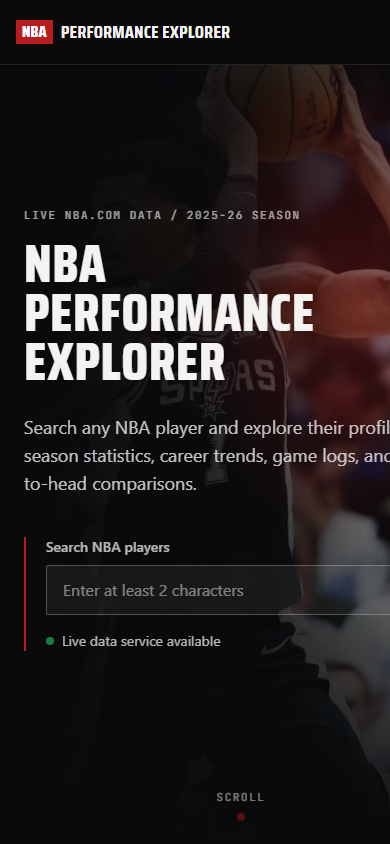
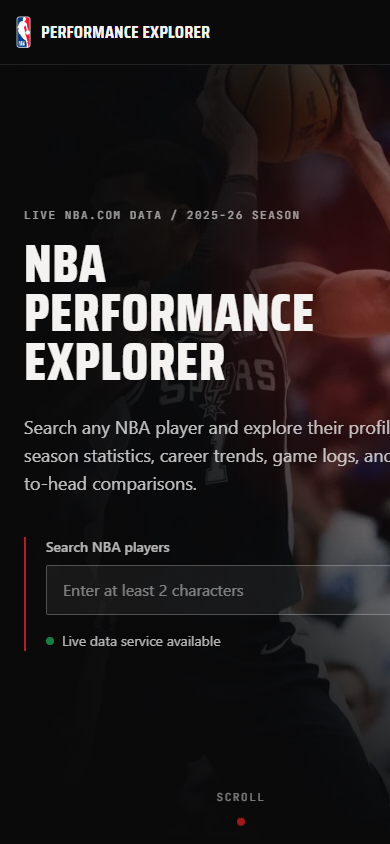
docs(readme): refresh branding and comparison screenshots

Changed region(s): [[0.0308, 0.0, 0.5846, 0.0616], [0.5846, 0.955, 0.6462, 0.9858]]

diff --git a/docs/PROJECT_STATE.md b/docs/PROJECT_STATE.md
@@ -7,36 +7,33 @@ _Last updated: 2026-07-03_
 
 ## Current State
 
-- **Current milestone:** Visual Redesign 2 - Broadcast Editorial (complete, merged, and deployed)
-- **Current task:** None - the dark redesign is merged to `main` and live in production
-- **Current branch:** `main`
-- **Current status:** The second, approved visual redesign is complete and shipped. It was developed
-  across five stages on `feature/visual-redesign-2-foundation`: the dark landing plus the global dark
-  shell and self-hosted type system; the fully dark player profile (identity hero, biography, dark
-  season selector, scoreboard statistics, and supporting dark stat sheet); the profile's data surfaces
-  (the career trend chart and its equivalent table, and the game log and its scrollable table)
-  redesigned dark; the two-player comparison route (`/compare`) as a dark cinematic head-to-head with a
-  neutral, accessible comparison table; and a final release-polish stage from a whole-application
-  adversarial audit (the landing Career Trends band converted to dark so the app is dark end to end,
-  landing heading focus on entry, mobile-menu keyboard focus containment, a named career-trends scroll
-  region, larger comparison touch targets, a brighter display-red for large scoreboard figures with the
-  single UI accent unchanged, and em-dash and eyebrow cleanup). It was opened as PR #24 and **merged
-  into `main` using a merge commit (`a0ce49f228f564910ccc253a48215f481fb18485`)**; the six redesign
-  commits are preserved in history. Render auto-deployed the merged `main`, and production health and
-  HTTP/API smoke checks passed at `https://nba-performance-explorer.onrender.com` (the deployed build
-  serves the dark redesign over live NBA.com data). The refreshed dark README screenshots are on
-  `main`. The feature branch has been deleted locally and remotely, local `main` matches `origin/main`,
-  and the working tree is clean. Validation passes with 166 frontend tests, 244 backend tests, and 410
-  total. Backend, shared contracts, routes, `render.yaml`, all data/query/season/comparison logic, the
-  chart and game-log data and metric definitions, and the numeric formatters are unchanged; production
-  remains live-backed with `NBA_DATA_PROVIDER=nba-stats`, `NBA_ALLOW_FIXTURE_IN_PRODUCTION=false`,
-  `NBA_STATS_TIMEOUT_MS=10000`, and the start command `node backend/dist/server.js`. The known
-  Recharts/Vite chunk-size warning remains non-blocking, and the documented live-data limitation for
-  LeBron James's career seasons remains (NBA.com returns zero career rows for that player, so his career
-  chart and any comparison relying on it show the empty / no-common-season states in production; not a
-  defect, per ADR-013). Production visual interaction was verified locally on the identical merged
-  build, while production HTTP/API and deployment evidence were verified live. The first redesign and
-  TASK-011 remain recorded below.
+- **Current milestone:** Post-release visual enhancement: NBA branding, player imagery, and comparison graph
+- **Current task:** NBA logo, expanded player-image registry, landing image diversity, and a neutral comparison graph (implemented on a branch, local only, not pushed)
+- **Current branch:** `feature/nba-branding-player-images-comparison-visual`
+- **Current status:** The dark broadcast-editorial redesign (Visual Redesign 2) is complete, merged to
+  `main` (merge commit `a0ce49f228f564910ccc253a48215f481fb18485`), and deployed and verified in
+  production at `https://nba-performance-explorer.onrender.com` over the live NBA.com provider; that
+  work is recorded below. A separately scoped visual enhancement is now implemented on
+  `feature/nba-branding-player-images-comparison-visual` (branched from `main` at `427f63b`, local
+  only, not pushed): the supplied NBA logo is integrated once in the masthead beside the wordmark with
+  an "Unofficial player analytics" label (a decorative empty-alt image; the non-affiliation notice and
+  NBA.com attribution are unchanged); the strict id-keyed player-image registry grows from three to
+  fourteen verified players (every id checked against the fixtures and the live search directory,
+  never inferred from a face, with the photo-free fallback preserved for unmapped players and no two
+  players sharing a file); the landing now shows a different player per editorial slot (Wembanyama,
+  Luka Doncic, Giannis Antetokounmpo, Shai Gilgeous-Alexander, and James Harden) with no repeated
+  photo, so Curry and LeBron are no longer over-used; and the comparison page gains a supplementary,
+  neutral "statistical matchup" graph above the still-authoritative table (a mirrored per-metric
+  dual-bar with independent within-row scales, raw values, blue and amber data-visualisation series
+  distinguished by more than colour, no winner or aggregate score, an aria-hidden graphic, and a
+  reduced-motion-safe reveal). The five README portfolio screenshots are refreshed for the header
+  branding, landing imagery, and the new comparison graph. Validation passes with 182 frontend tests,
+  244 backend tests, and 426 total. No backend, shared contracts, `render.yaml`, route,
+  query-ownership, statistics, number-formatting, chart or game-log data, comparison URL / duplicate /
+  common-season logic, or existing profile-fallback behaviour changed; the direction is recorded in
+  ADR-022. The branch is not pushed; pushing, opening a pull request, merging, and deploying are
+  deferred until explicitly requested. The completed dark redesign (still live on `main`) and TASK-011
+  remain recorded below.
 
 ## Visual Redesign 2 (Broadcast Editorial)
 
@@ -319,11 +316,13 @@ the Stage D branch passed with:
 
 ## Immediate Next Action
 
-The dark broadcast-editorial redesign is merged to `main` (merge commit
-`a0ce49f228f564910ccc253a48215f481fb18485`), deployed to Render, and verified in production, and the
-feature branch has been cleaned up locally and remotely. No required redesign work remains. Future
-work should be handled as a new, separately scoped enhancement or maintenance task (for example, the
-optional bundle-splitting enhancement for the known non-blocking Recharts/Vite chunk-size warning).
+The post-release visual enhancement (NBA branding, the expanded player-image registry, landing image
+diversity, and the neutral comparison graph, ADR-022) is implemented, validated (182 frontend, 244
+backend, 426 total; all builds passing; the known non-blocking Recharts/Vite chunk-size warning
+remains), and committed on `feature/nba-branding-player-images-comparison-visual`, which is local only.
+Awaiting review of the visual result. Pushing the branch, opening a pull request, merging to `main`,
+and the Render deployment are deferred until explicitly requested; the dark redesign on `main` remains
+live in production.
 
 ## How To Update This File
 

diff --git a/docs/DECISIONS.md b/docs/DECISIONS.md
@@ -591,3 +591,61 @@ contracts, routes, Render configuration, query ownership, statistics, number for
 game-log data, or comparison logic changed. The Recharts/Vite chunk-size warning remains a known,
 non-blocking build note, and the portfolio screenshots under `docs/assets/` are still to be refreshed
 to the dark UI before release.
+
+---
+
+## ADR-022 - NBA logo, expanded player-image registry, and a neutral comparison graph
+
+- **Status:** Accepted
+- **Date:** 2026-07-03
+
+**Context.** A separately scoped visual enhancement follows the completed dark redesign: integrate the
+supplied NBA logo, broaden the player photography (the landing over-used two players), and add a
+visually impressive but honest statistical graphic to the comparison page. It must extend the approved
+dark broadcast-editorial system without becoming an official-NBA claim, showing a wrong player's photo,
+or implying a comparison winner.
+
+**Decision.**
+
+- **NBA logo.** The supplied NBA mark ships as `frontend/public/images/nba-logo.png` (cropped to the
+  glyph, transparent) and appears once, in the masthead, replacing the text "NBA" chip beside the
+  "Performance Explorer" wordmark. It is decorative (empty `alt`; the identity link keeps the
+  accessible name "NBA Performance Explorer"), sized for the dark header, and is not a giant
+  background, a repeated motif, or the favicon. A small "Unofficial player analytics" label sits with
+  the wordmark, and the footer non-affiliation notice and NBA.com attribution are unchanged, so the
+  project stays clearly unaffiliated. The logo is supplied editorial imagery; provenance and any
+  production licensing remain the project owner's responsibility (consistent with ADR-017); this
+  records no legal conclusion.
+- **Expanded strict image registry.** `playerImages.ts` grows from three to fourteen players. Every id
+  is a real NBA person id verified against the application's own data (the fixtures and the live search
+  directory), never inferred from a face; ambiguous or unlabelled source files are left unmapped.
+  Mapping stays strictly id-keyed and presentational, no two players share a photo file, and a player
+  without a mapping still gets the intentional photo-free composition (never a stand-in or the wrong
+  player). Alt text and per-image focal positions are recorded; no image-processing dependency was
+  added.
+- **Landing image diversity.** The landing shows a different player in each editorial slot (Wembanyama
+  hero, then Luka Doncic, Giannis Antetokounmpo, and a Shai Gilgeous-Alexander versus James Harden
+  teaser); no photo repeats on the page, and the previously over-used Curry and LeBron images no longer
+  appear on the landing.
+- **Comparison stat graph.** A supplementary "statistical matchup" graphic sits above the neutral
+  comparison table when a valid common-season comparison is available. It is a mirrored, per-metric
+  dual-bar "tale of the tape": each of the same eleven metrics is one row with both raw values always
+  printed, scaled independently within its own row (never on a shared cross-metric scale), with a
+  visible note that says so and safe handling of equal, zero, and unavailable values. The two series
+  use the data-visualisation blue and amber (never the red UI accent or team colours), distinguished by
+  colour, side, a hatch pattern, and persistent labels, with no winner colouring, arrows, ranking, or
+  aggregate score. The graphic is `aria-hidden` and the comparison table remains the authoritative,
+  screen-reader-accessible representation; the graph's heading and scale note stay outside the
+  aria-hidden graphic, and the reveal motion is CSS-only, gated on `prefers-reduced-motion`, leaving
+  every bar at its final width otherwise. The logo uses a decorative empty `alt` rather than an
+  `aria-hidden` attribute so the career-trends test's "first aria-hidden element is the chart"
+  assumption stays intact.
+
+**Consequences.** The interface carries basketball brand context and a broader, correctly-mapped player
+roster, and the comparison page gains an impressive yet neutral and accessible visual, without changing
+any data, logic, contracts, routes, or the authoritative table. No backend, shared contracts,
+`render.yaml`, query ownership, statistics, number formatting, chart or game-log data, comparison URL /
+duplicate / common-season logic, or the existing profile fallback changed. Provenance and any
+production licensing of the supplied NBA logo and player photography remain the project owner's
+responsibility; the non-affiliation notice and NBA.com attribution remain present. The known
+Recharts/Vite chunk-size warning remains non-blocking.

diff --git a/README.md b/README.md
@@ -16,14 +16,14 @@ Captured from the final redesigned app with deterministic fixture data (Stephen 
 LeBron James, 2023-24 season).
 
 <a href="https://nba-performance-explorer.onrender.com">
-  <img src="docs/assets/home-desktop.png" alt="NBA Performance Explorer home page: a product hero with the player search and a live-data status indicator." width="100%" />
+  <img src="docs/assets/home-desktop.png" alt="NBA Performance Explorer home page: an NBA-branded masthead over a full-bleed hero with the player search and a live-data status indicator." width="100%" />
 </a>
 
 <table role="presentation">
   <tr>
     <td width="50%">
-      <img src="docs/assets/player-profile-desktop.png" alt="Stephen Curry profile with bio details, a season selector, and selected-season statistics." width="100%" />
-      <br /><sub>Player profile and selected-season statistics</sub>
+      <img src="docs/assets/player-profile-desktop.png" alt="Stephen Curry profile under the NBA-branded masthead, with the jersey-number scoreboard identity, bio details, and a season selector." width="100%" />
+      <br /><sub>Player profile identity and bio</sub>
     </td>
     <td width="50%">
       <img src="docs/assets/career-trends-desktop.png" alt="Career-trend line chart with a matching data table; series are distinguished by dash pattern and legend shape, not colour alone." width="100%" />
@@ -32,11 +32,11 @@ LeBron James, 2023-24 season).
   </tr>
   <tr>
     <td width="50%">
-      <img src="docs/assets/player-comparison-desktop.png" alt="Two-player regular-season comparison table: Stephen Curry versus LeBron James for the 2023-24 season." width="100%" />
-      <br /><sub>Two-player season comparison</sub>
+      <img src="docs/assets/player-comparison-desktop.png" alt="Two-player head-to-head, LeBron James versus Stephen Curry for the 2023-24 season: the VS identity panels above a mirrored, per-metric statistical matchup graph." width="100%" />
+      <br /><sub>Two-player comparison with a statistical matchup graph</sub>
     </td>
     <td width="50%">
-      <img src="docs/assets/home-mobile.png" alt="NBA Performance Explorer home page on a narrow mobile viewport, with controls stacked in a single column." width="100%" />
+      <img src="docs/assets/home-mobile.png" alt="NBA Performance Explorer home page on a narrow mobile viewport: the NBA-branded masthead and a single-column hero." width="100%" />
       <br /><sub>Responsive mobile home page</sub>
     </td>
   </tr>
